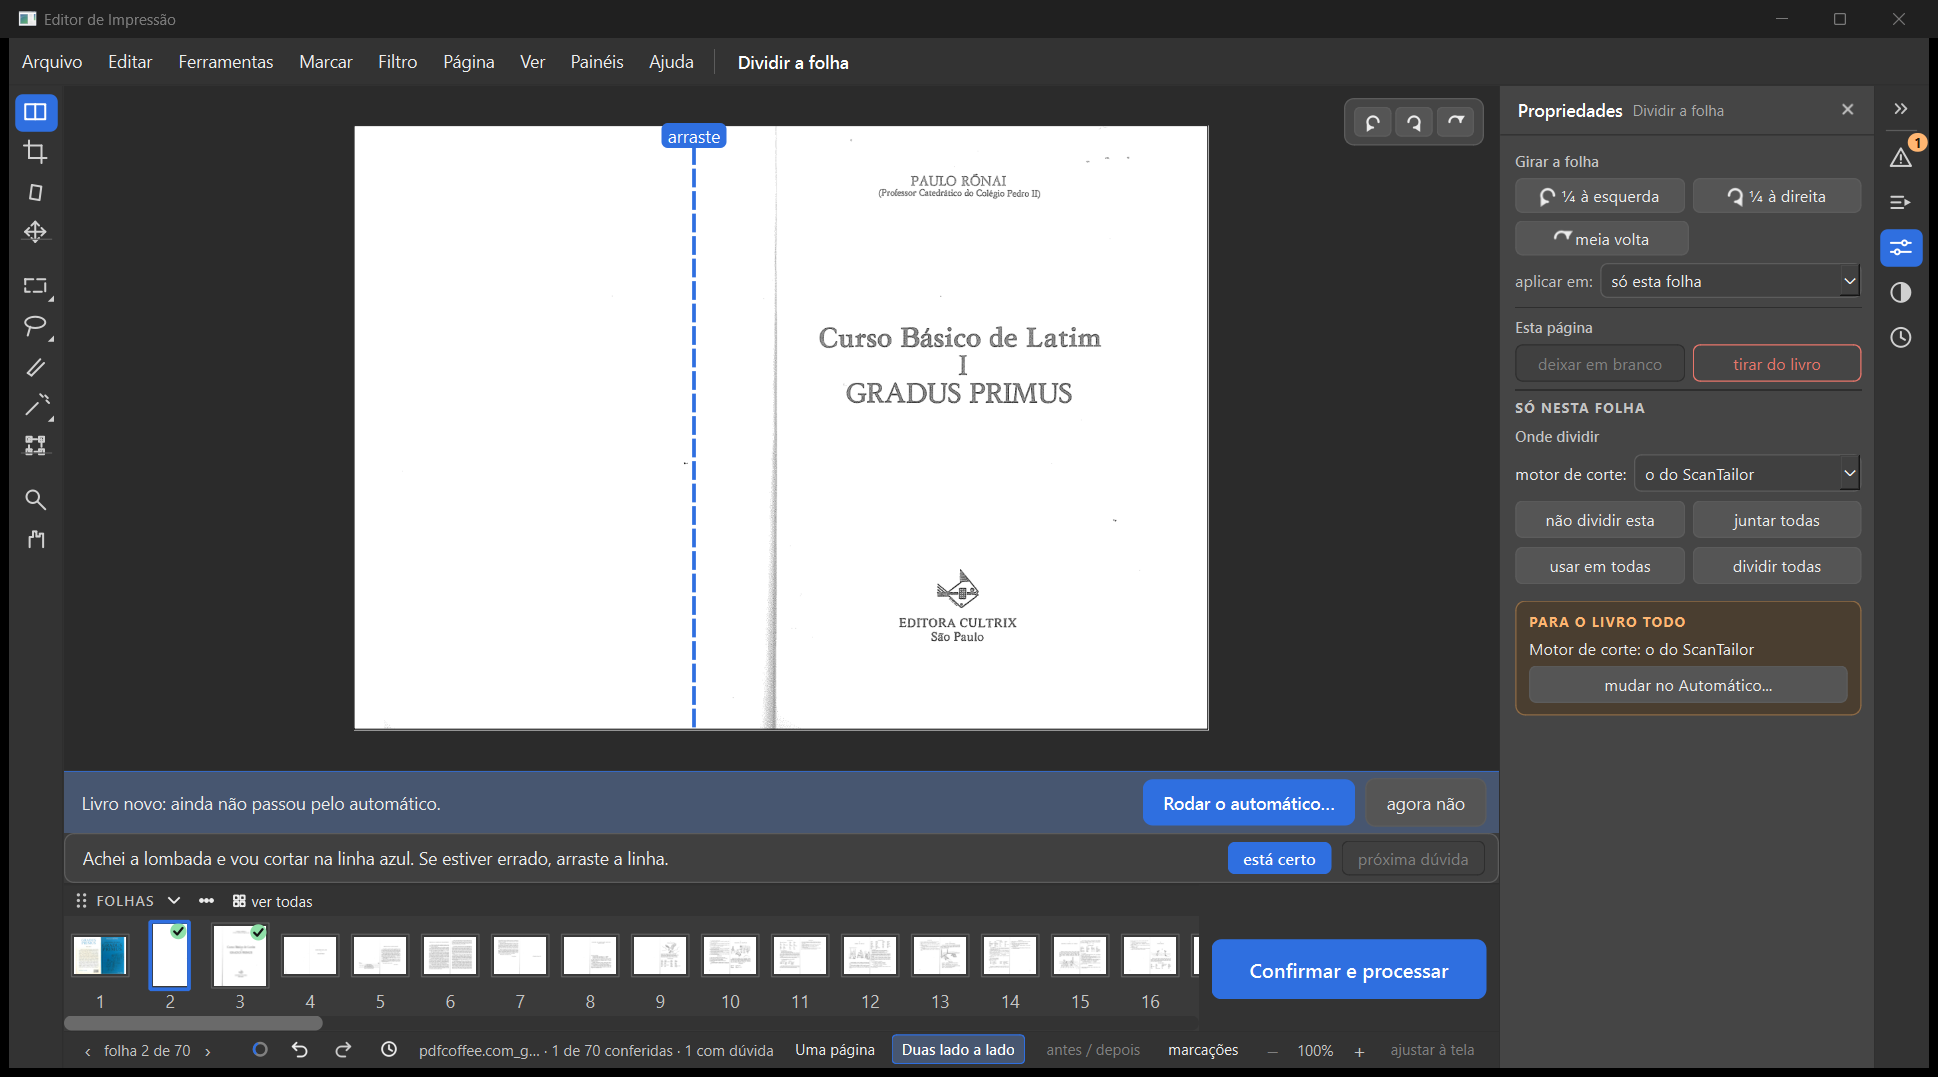
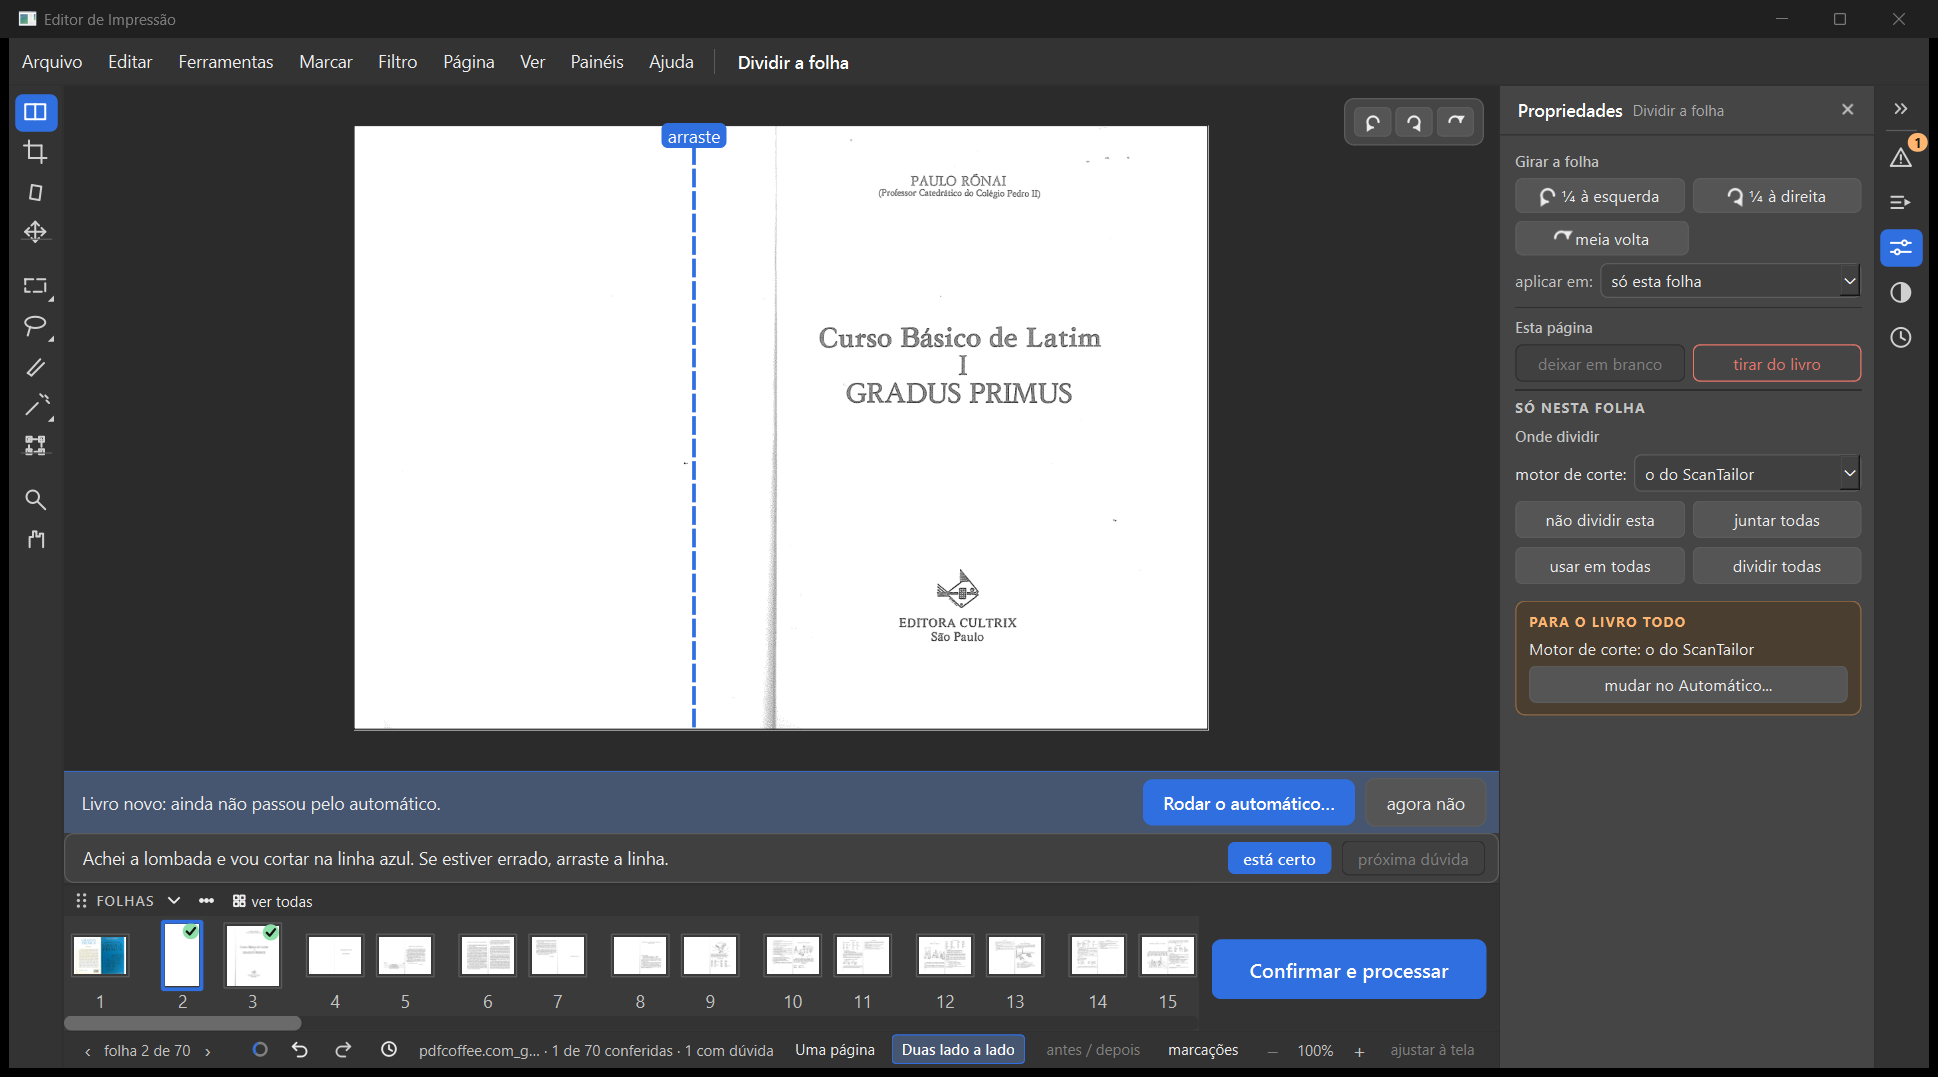
D-610/D-611: prints na janela de verdade (Gradus) e ONDE-PAREI

Changed region(s): [[0.0619, 0.8579, 0.6192, 0.9499]]

diff --git a/relatorios/dividir-arrastar/piloto.py b/relatorios/dividir-arrastar/piloto.py
@@ -90,6 +90,39 @@ def main():
     P.p(j, "folha4-duas-lado-a-lado-linha-arrastada-para-55")
     b.tecla(j, 0x27); P.esperar_linha(j)                           # seta → (D-608)
     P.anotar("seta direita depois de arrastar (D-608)", estado(j))
+
+    # --- D-610: folha 1 inteira em "Duas lado a lado", "dividir esta" → "Uma página" ----------
+    P.ir_folha(j, 1)
+    P.anotar("folha 1 inteira, Duas lado a lado", {**estado(j), "vista": t.mostrar})
+    P.p(j, "d610-folha1-inteira-duas-lado-a-lado")
+    b.clique(j, t.botao_nao_dividir); b.esperar(2)                 # dividir esta
+    P.anotar("folha 1 depois do dividir esta (D-610)", {**estado(j), "vista": t.mostrar,
+                                                         "metade": t._metade_no_dividir()})
+    P.p(j, "d610-folha1-dividida-foi-para-uma-pagina")
+    b.tecla(j, 0x27); P.esperar_linha(j)                           # →
+    P.anotar("seta direita (uma página por vez)", {**estado(j), "metade": t._metade_no_dividir()})
+    b.tecla(j, 0x27); P.esperar_linha(j)                           # →
+    P.anotar("seta direita de novo (a folha 2, sem pular)", estado(j))
+
+    # --- D-611: a tira em pares com "Duas lado a lado" ----------------------------------------
+    P.ir_folha(j, 1)
+    P.anotar("tira em Uma página", {"vista": t.mostrar, "pares": t.tira.em_pares_agora,
+                                    "posicoes": [t.tira.posicao(i) for i in range(6)]})
+    P.p(j, "d611-tira-uma-a-uma-em-uma-pagina")
+    P.mostrar(j, "duas")
+    P.anotar("tira em Duas lado a lado", {"vista": t.mostrar, "pares": t.tira.em_pares_agora,
+                                          "posicoes": [t.tira.posicao(i) for i in range(6)],
+                                          "ver_em_pares_do_menu": j.tela_conferir.miniaturas.em_pares})
+    P.p(j, "d611-tira-em-pares-em-duas-lado-a-lado")
+    # o mesmo no Cortar (outra ferramenta), com o livro dividido
+    b.clique(j, t.botao_dividir_todas); P.esperar_dividir_todas(j)
+    P.mostrar(j, "duas")
+    t.escolher_ferramenta("cortar"); b.esperar(3)
+    P.anotar("Cortar, Duas lado a lado", {"vista": t.mostrar, "pares": t.tira.em_pares_agora,
+                                          "miniaturas": len(t.tira._miniaturas)})
+    P.p(j, "d611-cortar-duas-lado-a-lado-tira-em-pares")
+    P.mostrar(j, "uma")
+    P.p(j, "d611-cortar-uma-pagina-tira-uma-a-uma")
     j.close(); b.esperar(2)
     P.LOG.close()
 

diff --git a/relatorios/dividir-arrastar/relatorio.md b/relatorios/dividir-arrastar/relatorio.md
@@ -1,0 +1,79 @@
+# D-609 — arrastar a linha azul na folha inteira (04/11/2026)
+
+Ramo `dividir-arrastar-2026-11-04` (saiu de `obra-2026-10-26`, `e17410fe`). Commits: `ecf5e3a1` (código e provas),
+`6e5b4cdd` (uma linha de um teste antigo, ver Ressalva 1), `2c169489` (prints).
+
+## O que foi feito
+
+Na ferramenta Dividir, a linha azul da folha dupla ainda inteira agora se arrasta com o mouse, com a mesma pega
+"arraste", em "Uma página" e em "Duas lado a lado". O "dividir esta" e o "dividir todas" cortam onde a pessoa a deixou;
+sem arrastar, continuam cortando na linha do motor.
+
+## Arquivos
+
+- `modelos.py`: campo novo `ConfigFolha.linha_a_mao` = [rotação, motor] em que a linha da folha inteira foi arrastada
+  (None = não foi). Projeto antigo: None, sai igual.
+- `ui/tela_conferir.py`: `_linha_arrastada`, `_acertar_a_linha_do_dividir` (linha arrastável),
+  `_mover_corte` → `_mover_a_linha_da_folha_inteira`, `_dividir_esta`, `_dividir_as_lidas` ("dividir todas"),
+  `_trocar_jeito_da_folha` (apaga a marca), `_so_as_divididas` (a medida do "Parece em branco" só nas folhas divididas
+  quando só a linha muda, no `_registrar` e no refazer).
+- `tests/test_decisoes_dividir_arrastar.py` (novo, 13 provas).
+- `tests/test_decisoes_dividir_linha.py`: só a linha 127 (Ressalva 1).
+- `relatorios/dividir-arrastar/`: ONDE-PAREI, piloto, anotações e prints.
+
+## Como cumpri cada uma
+
+| Decisão | Como | Prova |
+|---|---|---|
+| D-609 arrastar na folha inteira | linha com pega e arrasto em "Uma página" e "Duas lado a lado" | `test_reversao_d609_linha_se_arrasta_na_folha_dupla_inteira[uma/duas]`; prints p02 (Uma página, folha 2) e p06 (Duas, folha 4) |
+| D-609 "dividir esta" corta onde ficou | usa `posicao_corte` arrastada | `test_reversao_d609_dividir_esta_corta_onde_a_linha_ficou`; p03 (metade esquerda estreita) e p04 (corte em 40%) |
+| D-602 sem arrastar, linha do motor | inalterado | mesma prova (a outra folha) + `test_decisoes_dividir_linha.py` |
+| D-602 folha de uma página sem linha | inalterado; mouse nela não grava nada | `test_d609_folha_de_uma_pagina_continua_sem_linha_e_o_mouse_nao_mexe` |
+| Desfazer/refazer | arrasto = 1 ação; Ctrl+Z/Ctrl+Y duas vezes devolvem páginas, folhas, linha, avisos, "com dúvida" e botão iguais | `test_d609_desfazer_e_refazer_...`, `test_d609_ctrl_z_do_teclado_volta_a_linha`; piloto com Ctrl+Z/Ctrl+Y do Windows (anotacoes.txt) |
+| D-606 trocar o motor | a marca sai na mesma ação; a linha vai para a do motor novo; Ctrl+Z devolve motor e linha arrastada | `test_d609_trocar_o_motor_depois_de_arrastar_refaz_a_conta` |
+| "dividir todas" | a arrastada na sua linha; as outras, na do motor; uma ação | `test_d609_dividir_todas_corta_a_arrastada_...` |
+| D-090 "usar em todas" | copia a linha desta folha (a arrastada); a folha arrastada vem desmarcada (marca "mexida à mão") | `test_d609_usar_em_todas_copia_a_linha_arrastada`, `..._deixa_desmarcada_a_folha_arrastada` |
+| D-498 folha juntada | se arrasta; "dividir esta" devolve as páginas como estavam, cortadas onde ficou | `test_d609_folha_juntada_arrastada_volta_como_estava_na_linha_nova` |
+| D-608 setas | depois de arrastar, → passa de folha | `test_d609_seta_passa_de_folha_depois_de_arrastar`; piloto (folha 4 → 5) |
+| D-601 | "Uma página" mostra a metade depois de dividir; frase da barra igual | p03; `test_decisoes_dividir_metade.py` |
+| Item 7 (nada além) | nenhuma frase, botão ou lugar mudou ("Esta folha não vai ser dividida." igual, p02/p06) | prints |
+| D-605 | "O que já está escolhido e testado" no ONDE-PAREI; testes antigos do Dividir passando | abaixo |
+
+Reversão: em `e17410fe`, 11 das 13 provas falham; as 2 que passam lá são as das escolhas que continuam (folha de uma
+página, seta).
+
+## Ressalvas
+
+1. **Um teste antigo tinha de mudar.** `test_decisoes_dividir_linha.py::test_reversao_d602_...` (linha 127) dizia
+   `assert not vista.corte_arrastavel`, com o comentário "a linha da folha inteira é só para ver: arrastar não muda
+   nada (pergunta ao Samuel)". É exatamente o que a D-609 tira (resposta "Sim" à pergunta `d602-arrastar`). Troquei
+   só essa linha para `assert vista.corte_arrastavel`, num commit separado (`6e5b4cdd`) para a gerente conferir ou
+   tirar. O resto do teste ficou igual.
+2. **Escolhas técnicas minhas (D-014), para a gerente conferir:**
+   - Arrastar na folha inteira **não** marca a folha como "conferida" (na dividida, marca). Motivo: ela ainda não foi
+     dividida; o "dividir esta" marca. Assim o "N de M conferidas" e o "com dúvida" não mudam só por arrastar.
+   - A linha arrastada vale na rotação e no motor em que foi arrastada: girar a folha mostra a linha do motor na folha
+     girada (o Ctrl+Z do giro devolve a arrastada). Sem isso, a linha cairia num lugar sem sentido na folha girada.
+   - Soltar a linha onde ela já estava não grava nada.
+   - A medida do "Parece em branco" (D-497) deixou de rodar quando só a linha de uma folha **inteira** muda (no
+     arrasto, no refazer e no "usar em todas" em folhas inteiras): a página dela não muda, e medir pararia a medida que
+     já andava (ex.: logo depois de um "dividir esta"). Nas folhas divididas continua igual.
+   - Na folha juntada, arrastar e depois "dividir esta" devolve as páginas como estavam (D-498) **na linha nova**
+     (D-609 é a mais recente); sem arrastar, na linha de antes, como sempre.
+3. O desfazer do "dividir esta" devolve `conteudo_deslocamento` das páginas como lista em vez de tupla (mesmo valor).
+   Já era assim antes; não muda nada na tela. A prova compara pelo jeito do projeto.json.
+4. Não rodei o filtro de velocidade: não mexi em `core/`.
+
+## Testes
+
+- PC, um arquivo por vez: ver a seção "Rodadas".
+- GitHub: ver a seção "Rodadas".
+
+## Ideias para a Lista de espera / bugs para a Lista de bugs
+
+- (Observação, não mexi) Numa folha inteira **sem arrastar**, o "usar em todas" copia o `posicao_corte` guardado
+  (o meio de fábrica, 0,5), e não a linha do motor que a tela mostra. E nas folhas inteiras que recebem a linha do
+  "usar em todas", a tela continua mostrando a linha do motor (D-602 "fica como está"). Pode valer uma pergunta ao
+  Samuel.
+
+## Rodadas

diff --git a/relatorios/dividir-arrastar/ONDE-PAREI.md b/relatorios/dividir-arrastar/ONDE-PAREI.md
@@ -19,7 +19,21 @@ Saiu de `obra-2026-10-26` em `e17410fe`.
   onde o motor acha).
 - **D-608 (03/11):** depois de clicar num botão do painel, as setas continuam passando de folha.
 
+- **D-610 (04/11, pedido da gerente no meio da tarefa):** print a-56: "quando eu dividir uma folha que estiver em duas
+  lado a lado ela tem que ir para opção uma pagina, se não quando eu usar seta ela vai pular uma folha." → no Dividir,
+  "dividir esta" e "dividir todas" em "Duas lado a lado" passam a vista para "Uma página". Mais nova que a D-601.
+- **D-611 (04/11, idem):** "quando estiver duas lado a lado escolhido os icones embaixo tem que estar em duas folhas" ·
+  "Quer dizer que, com 'Duas lado a lado' escolhido, as miniaturas embaixo também aparecem de duas em duas, juntas como
+  no livro aberto?" → "Sim". Em "Uma página", a tira fica como está.
+
 ## O que já está escolhido e testado aqui (antes de mexer)
+
+- (D-610) D-601: em "Duas lado a lado" a vista ficava depois de dividir → `tests/test_dividir_na_tela.py::
+  test_linha_azul_some_quando_a_folha_nao_e_dividida` (o fim dele contava com isso: ver Situação), D-608 (setas).
+- (D-611) A tira: "Ver em pares" do menu dos três pontinhos (etapa 5 do layout, guardado para o próximo livro) →
+  `tests/test_miniaturas_novas.py`; a tira do Dividir (D-601: dividida = duas miniaturas, inteira = uma dupla) →
+  `tests/test_decisoes_dividir_metade.py`; rolar até a escolhida depois do Ctrl+Z (03/11) →
+  `tests/test_dividir_ajustes_03_11.py`. A tira da tela inicial (de lado) não muda.
 
 - D-602: linha do motor na folha inteira, "Uma página" e "Duas lado a lado"; sem linha na de uma página só; "dividir
   esta" corta na linha mostrada; "dividir todas"; lista do motor acesa → `tests/test_decisoes_dividir_linha.py`.
